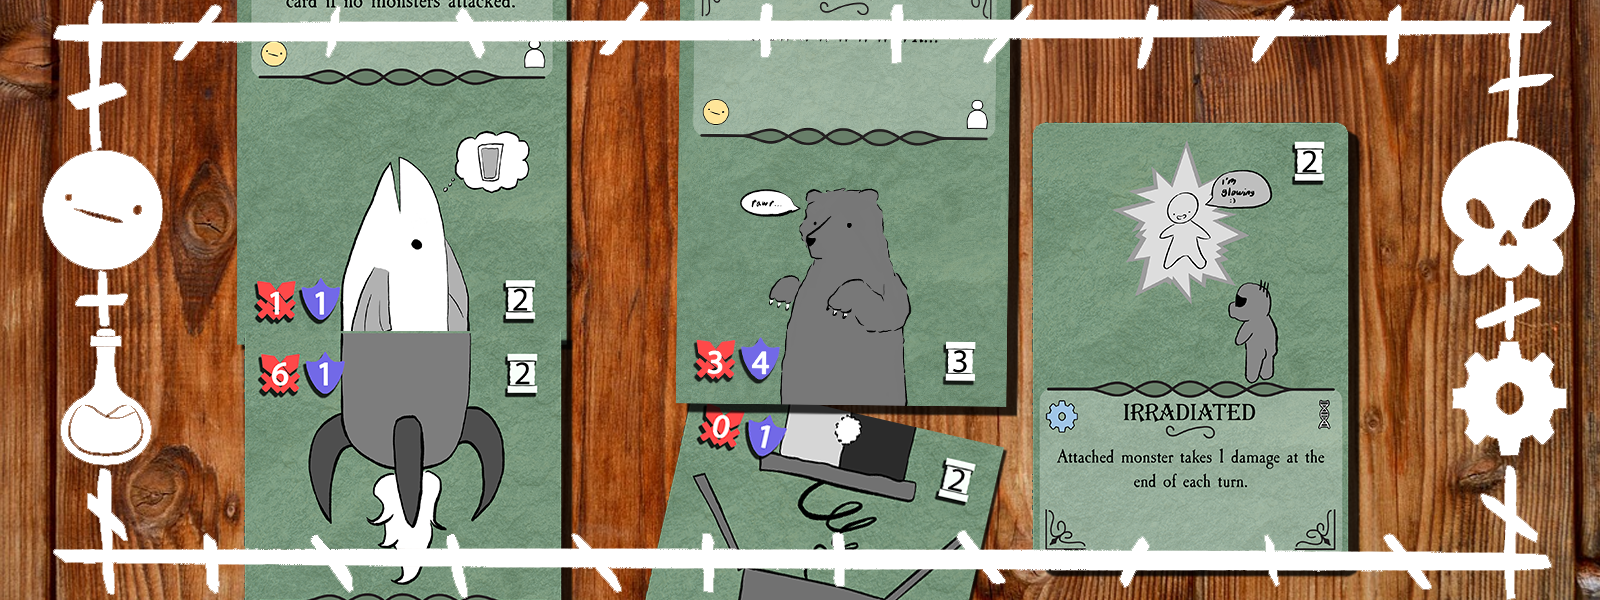
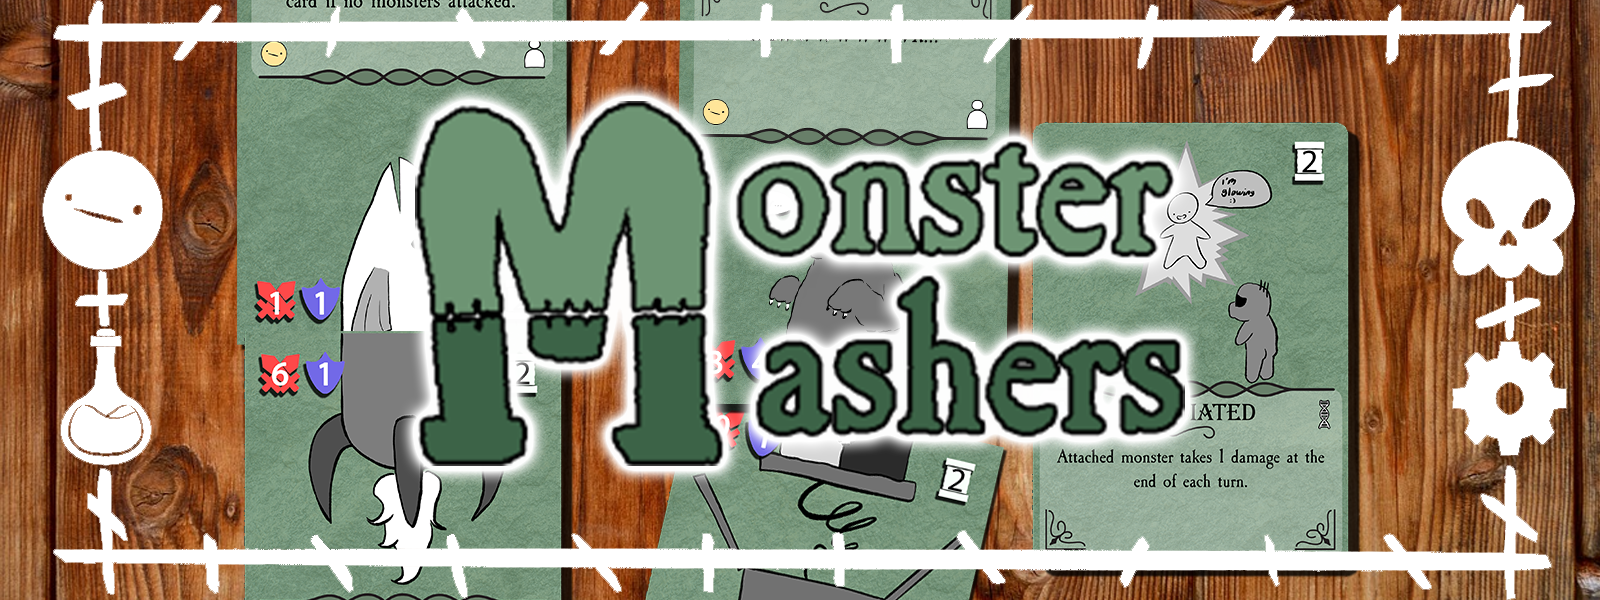
Fixed missing card
Fixed missing card on bottom carousel

Changed region(s): [[0.25, 0.12, 0.75, 0.81]]

diff --git a/assets/css/CardCarousel.css b/assets/css/CardCarousel.css
@@ -6,7 +6,9 @@
   align-items: center;      
   gap: 10px;              
   min-height: 100vh;  
-  position:static;     
+  position:static;    
+  overflow: hidden;
+   
 }
 
 .carousel.moved {
@@ -28,7 +30,7 @@
     margin: 0 auto;
     padding: 0% 0;
     /* max-width: 700px; */
-    overflow: hidden;
+    overflow: visible;
     display: flex;
     /* column-gap: 1%; */
     justify-content: space-between;
@@ -43,7 +45,7 @@
  margin: 0 auto;
     padding: 0% 0;
     /* max-width: 700px; */
-    overflow: hidden;
+    overflow: visible;
     display: flex;
     /* column-gap: 1%; */
     justify-content: space-between;

diff --git a/index.html b/index.html
@@ -45,7 +45,7 @@
 
 						<!-- Intro -->
 							<article id="MonMash">
-								<h2 class="major">Intro</h2>
+								<h2 class="major">Monster Mashers</h2>
 								<span class="image main"><img src="images/mmash shoppage newnoscale.png" alt="" /></span>
 								<p>Aenean ornare velit lacus, ac varius enim ullamcorper eu. Proin aliquam facilisis ante interdum congue. Integer mollis, nisl amet convallis, porttitor magna ullamcorper, amet egestas mauris. Ut magna finibus nisi nec lacinia. Nam maximus erat id euismod egestas. By the way, check out my <a href="#work">awesome work</a>.</p>
 								
@@ -55,13 +55,13 @@
 									<div class="mySlides fade">
 										<div class="numbertext">1 / 2</div>
 										<img src="images\Monmashpic1.png" style="width:100%">
-										<div class="text">Caption Text</div>
+										<div class="text">Two games of Monster Mashers!</div>
 									</div>
 
 									<div class="mySlides fade">
 										<div class="numbertext">2 / 2</div>
 										<img src="images\Monmashpic2.png" style="width:100%">
-										<div class="text">Caption Two</div>
+										<div class="text">A developed boardstate</div>
 									</div>
 
 									<!-- Next and previous buttons -->
@@ -401,7 +401,7 @@ print 'It took ' + i + ' iterations to sort the deck.';</code></pre>
 						<div class="card"><img src="images\Rounded corner images\Bottoms\Card_Rounded_0008_templatev5pleasefuckingwork_Djinn.png" alt="" /></div>
 						<div class="card"><img src="images/card back.png" alt="" /></div>
 						<div class="card"><img src="images\Rounded corner images\Bottoms\Card_Rounded_0012_templatev5pleasefuckingwork_Ent.png" alt="" /></div>
-						
+						<div class="card"><img src="images/card back.png" alt="" /></div>
 					</div>
 				</div>
 			</div>

diff --git a/assets/css/main.css b/assets/css/main.css
@@ -1129,7 +1129,7 @@ input, select, textarea {
 		border: 0;
 		box-shadow: inset 0 0 0 1px #000000;
 		color: #000000 !important;
-		background-color: rgba(207, 204, 204, 0.9);
+		background-color: rgba(255, 255, 255, 0.9);
 		cursor: pointer;
 		display: inline-block;
 		font-size: 0.8rem;